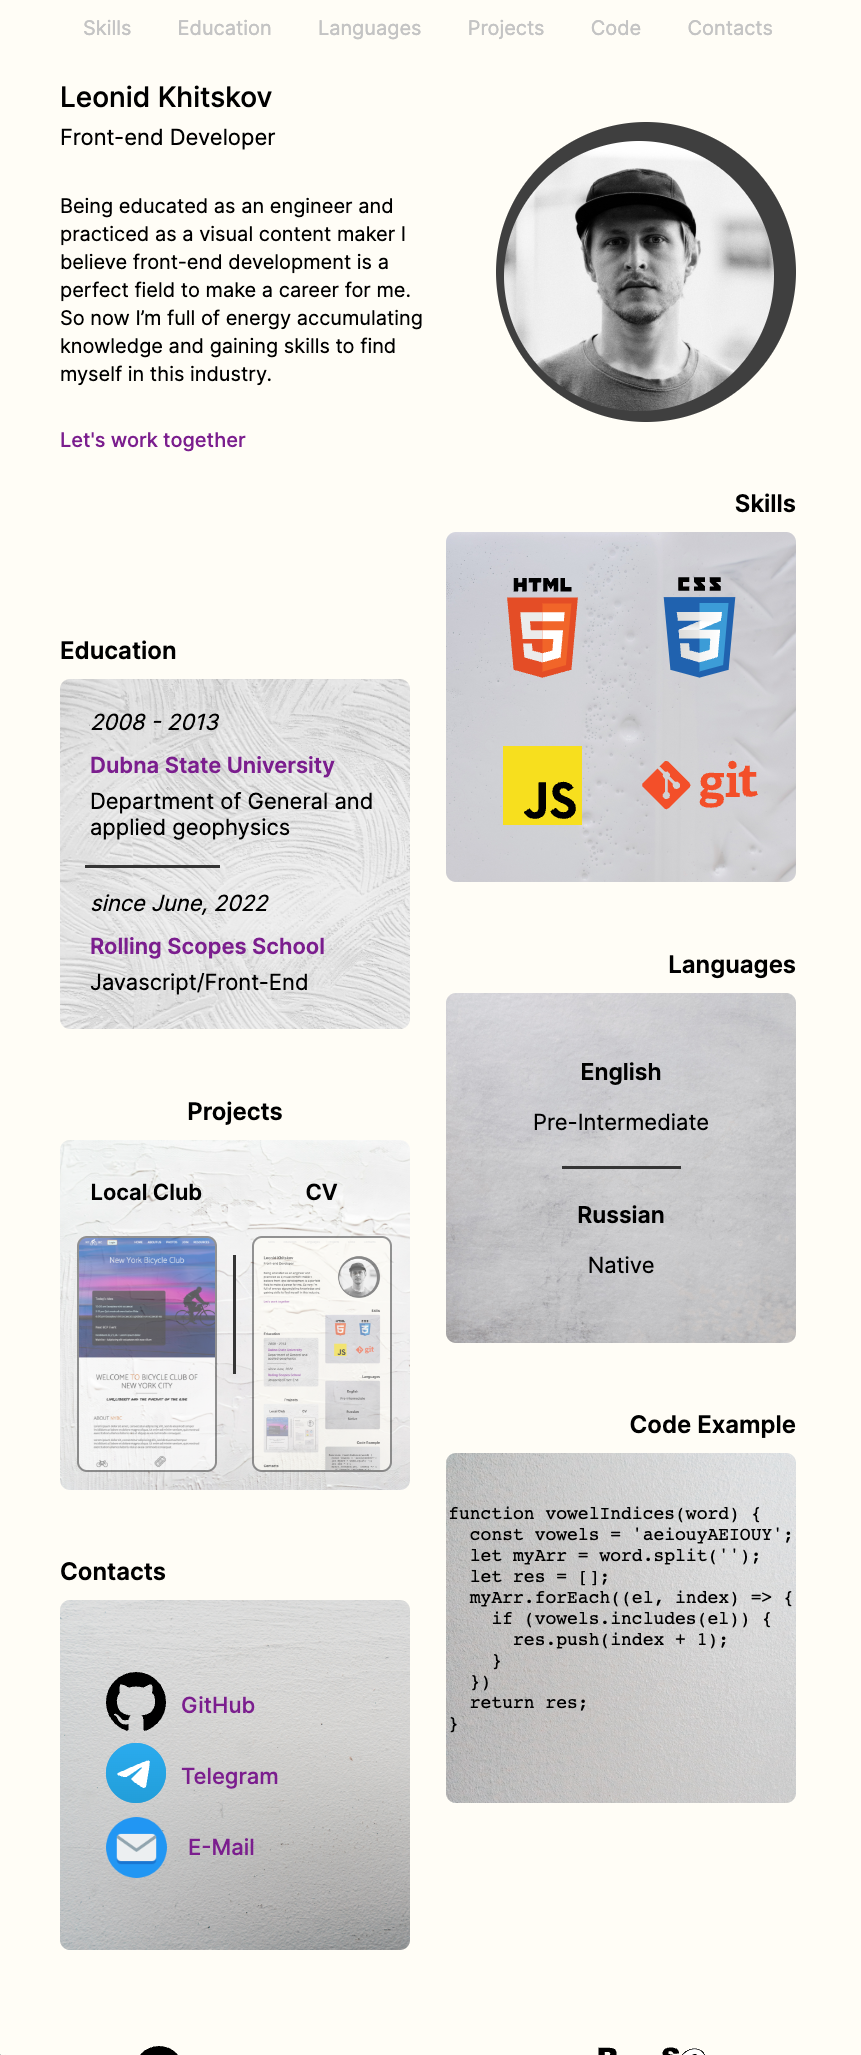
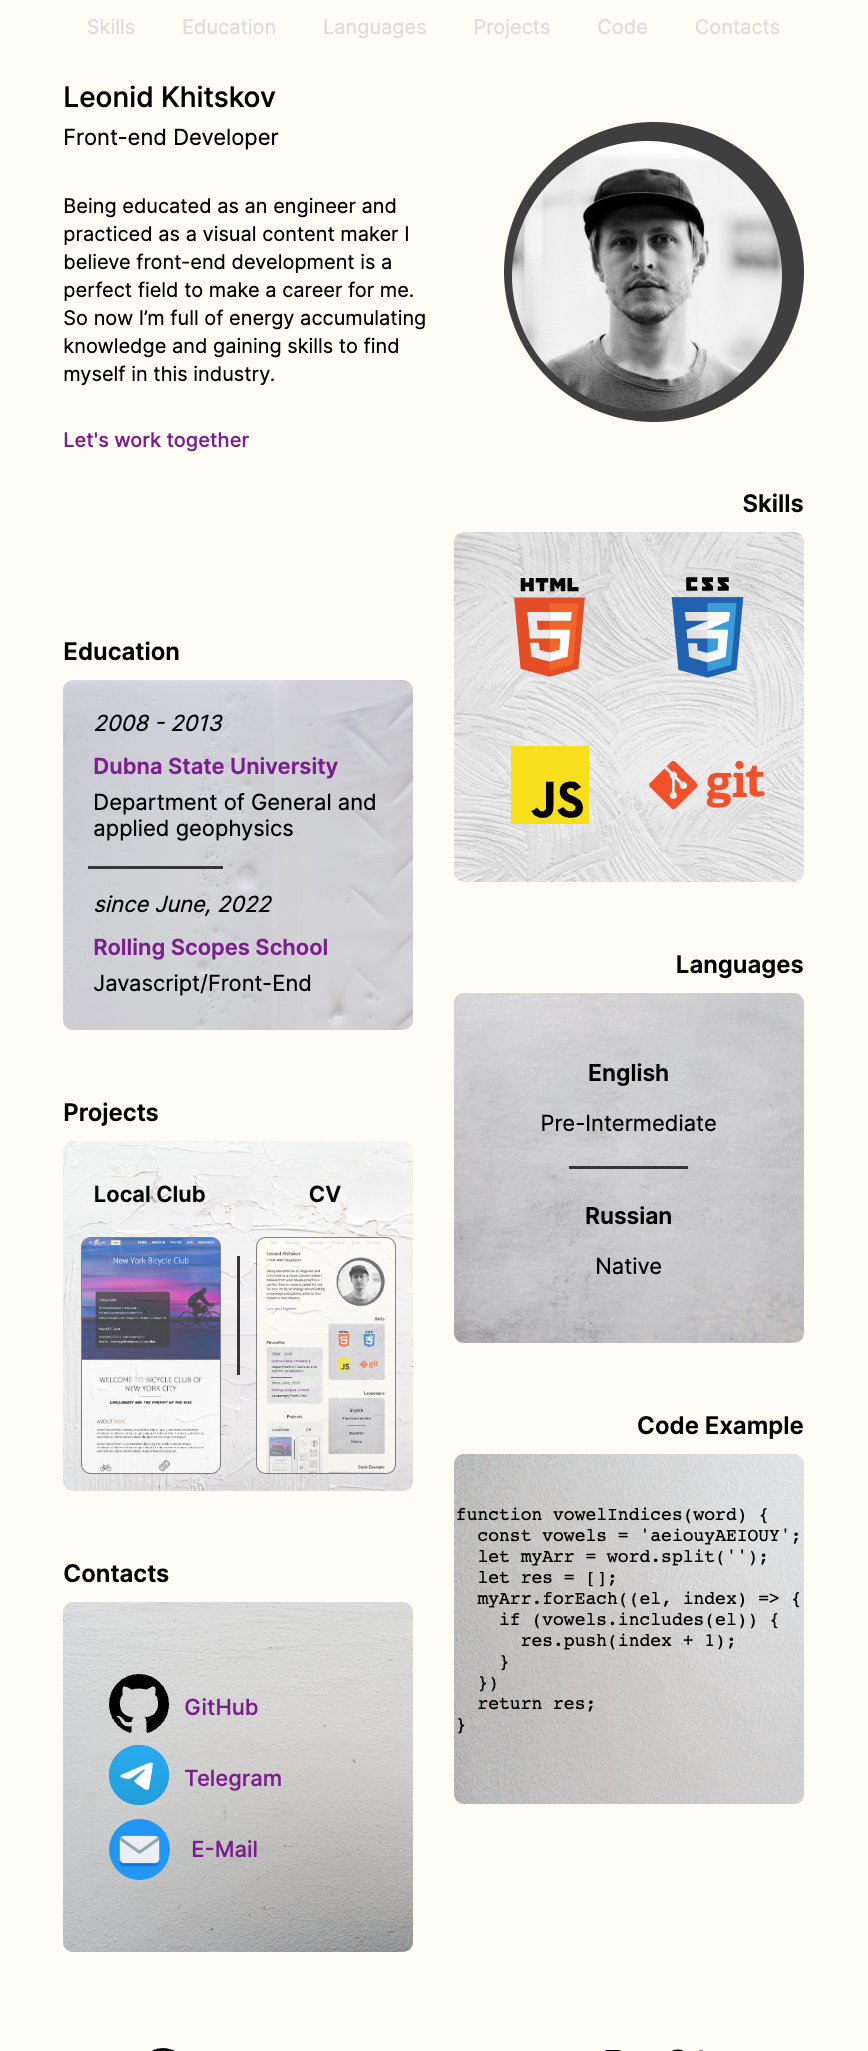
fix: change details in project section

diff --git a/css/style.css b/css/style.css
@@ -100,7 +100,6 @@ h2 {
   position: absolute;
   font-size: 24px;
   font-weight: 600;
-  text-align: center;
 }
 
 .introduction {
@@ -354,6 +353,10 @@ h2 {
   align-items: center;
 }
 
+.projects-block h2 {
+  left: 0;
+}
+
 .local-club-project-out {
   position: relative;
   display: flex;
@@ -371,7 +374,7 @@ h2 {
   background-size: cover;
   border: 1px solid rgb(81, 81, 81);
   border-radius: 10px;
-  opacity: 0.7;
+  opacity: 0.8;
   transition: all 0.4s ease;
 }
 
@@ -380,6 +383,15 @@ h2 {
   height: 100%;
   border: none;
   opacity: 1;
+}
+
+.cv-project-title {
+  position: absolute;
+  z-index: 3;
+  top: 0%;
+  left: 50%;
+  margin-left: -17px;
+  font-weight: 600;
 }
 
 .cv-project-out {
@@ -400,7 +412,7 @@ h2 {
   background-size: cover;
   border: 1px solid rgb(81, 81, 81);
   border-radius: 10px;
-  opacity: 0.7;
+  opacity: 0.8;
   transition: all 0.4s ease;
 }
 
@@ -409,19 +421,6 @@ h2 {
   height: 100%;
   border: none;
   opacity: 1;
-}
-
-.cv-project:hover .cv-project-title {
-  opacity: 0;
-}
-
-.cv-project-title {
-  position: absolute;
-  z-index: 3;
-  top: 0%;
-  left: 50%;
-  margin-left: -17px;
-  font-weight: 600;
 }
 
 .local-club-title {
